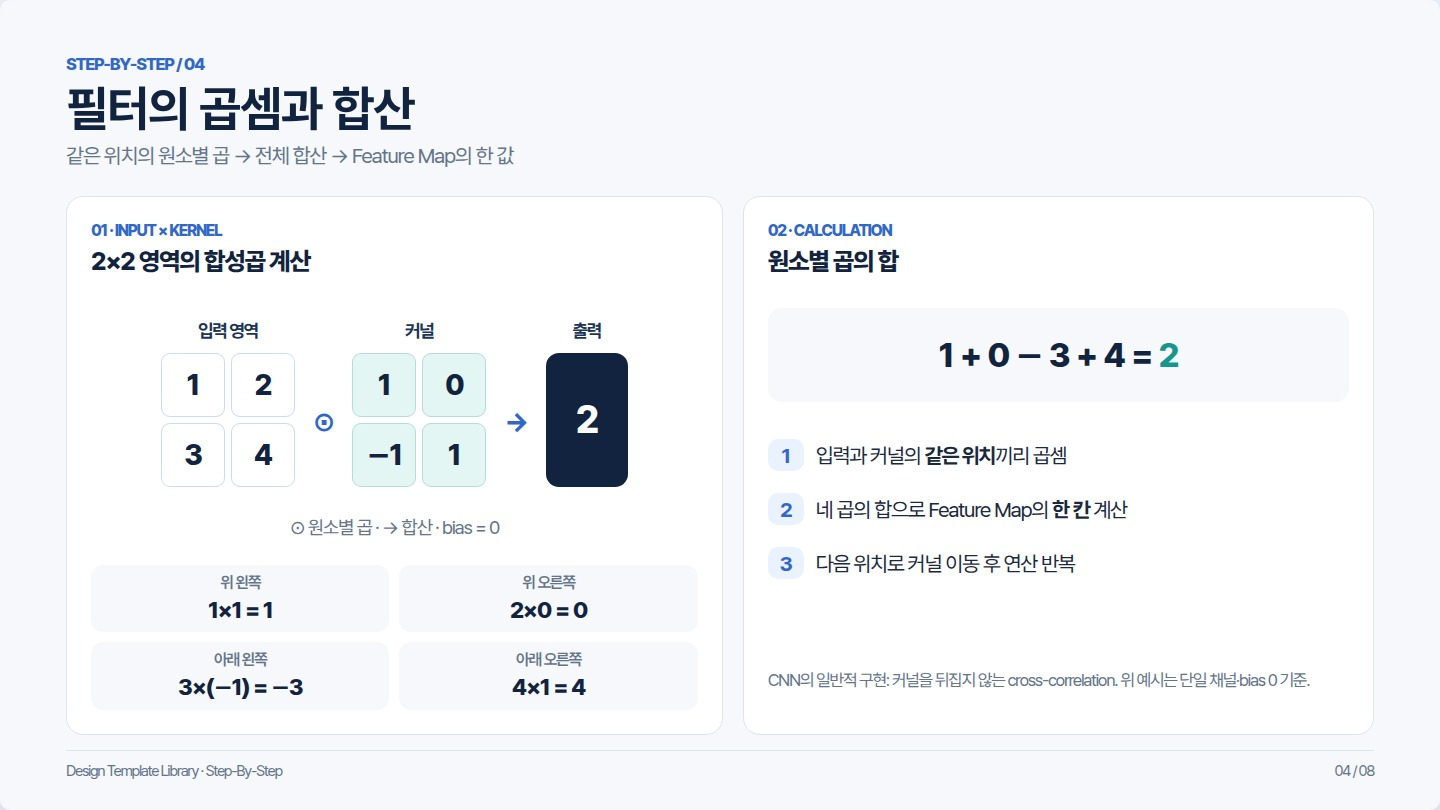
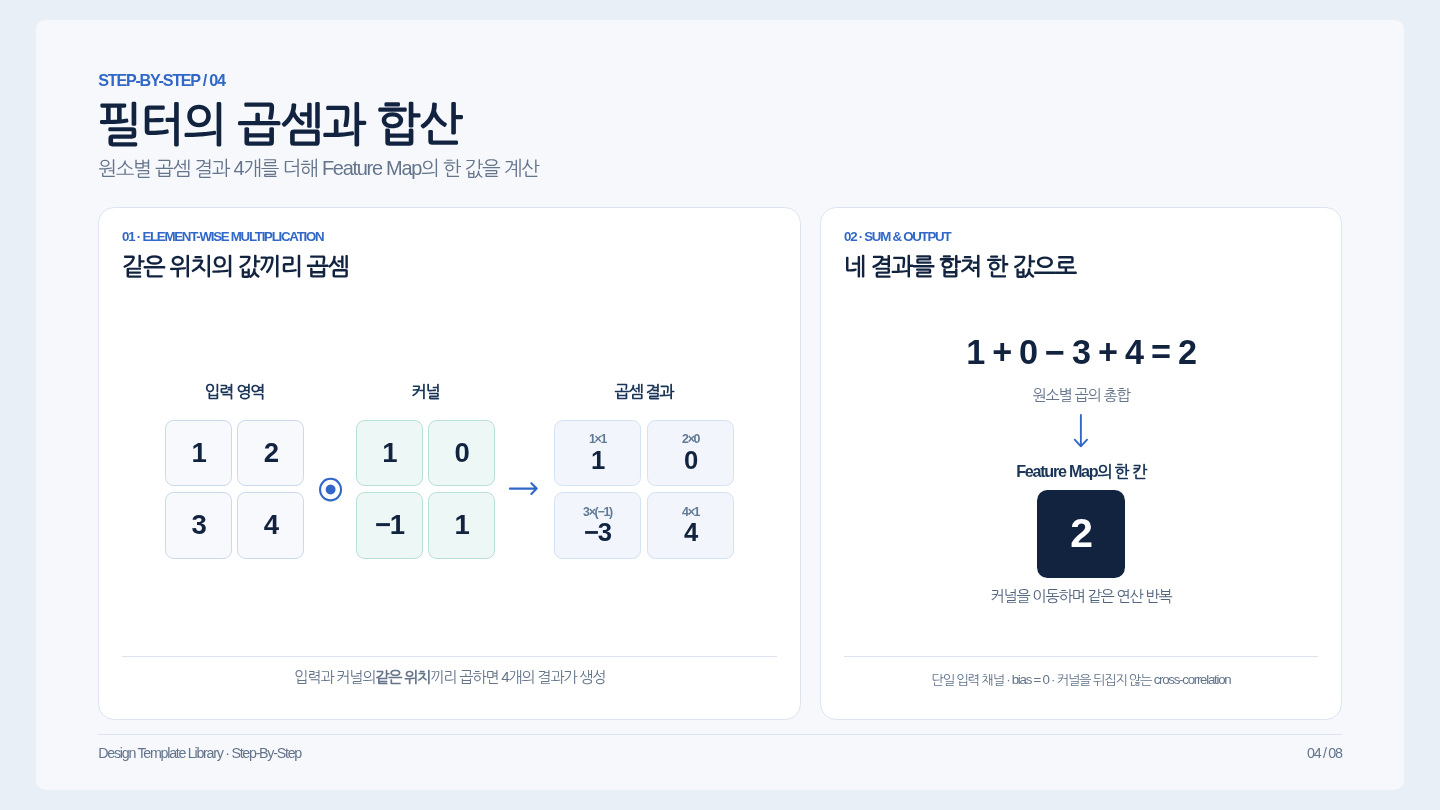
refine(step-by-step): show elementwise products before sum and map output

diff --git a/templates/html/step-by-step.html b/templates/html/step-by-step.html
@@ -1,25 +1,125 @@
 <!doctype html>
-    <html lang="ko"><head><meta charset="utf-8"><meta name="viewport" content="width=device-width,initial-scale=1">
-    <title>Step-By-Step | Design Template Library</title>
-    <link rel="stylesheet" href="styles.css"><link rel="stylesheet" href="reference-types.css"><link rel="stylesheet" href="reference-layout.css">
+<html lang="ko">
+<head>
+<meta charset="utf-8">
+<meta name="viewport" content="width=device-width,initial-scale=1">
+<title>Step-by-Step | Design Template Library</title>
+<link rel="stylesheet" href="styles.css">
+<link rel="stylesheet" href="reference-types.css">
+<link rel="stylesheet" href="reference-layout.css">
+<style>
+/* 04 Step-by-Step: one numerically verified, editable cross-correlation figure.
+   Reuse policy: docs/FIGURE_PRODUCTION_STANDARD.md (available on #6 PR). */
+.step-by-step-slide .content { display:flex; }
+.step-by-step-slide .calc-layout { display:grid; grid-template-columns:1.24fr .92fr; gap:20px; width:100%; min-height:0; }
+.step-by-step-slide .calc-panel { display:flex; flex-direction:column; min-width:0; padding:23px 24px; background:#fff; border:1px solid var(--border); border-radius:17px; }
+.step-by-step-slide .calc-step { color:var(--blue); font-size:14px; font-weight:800; }
+.step-by-step-slide .calc-heading { margin:8px 0 0; color:var(--navy); font-size:25px; font-weight:800; line-height:1.2; }
+.step-by-step-slide .calc-flow { display:flex; align-items:center; justify-content:center; gap:14px; width:100%; margin:auto 0; padding:17px 0 13px; }
+.step-by-step-slide .calc-item { display:flex; flex-direction:column; align-items:center; min-width:0; gap:15px; }
+.step-by-step-slide .calc-item-title { min-height:25px; font-size:17px; color:var(--deep); font-weight:750; white-space:nowrap; }
+.step-by-step-slide .calc-matrix { display:grid; grid-template-columns:repeat(2,70px); grid-auto-rows:70px; gap:6px; }
+.step-by-step-slide .calc-matrix > div { display:flex; justify-content:center; align-items:center; border:1px solid #cad9ed; border-radius:9px; background:#f7f9fd; color:var(--navy); font-size:29px; font-weight:800; font-variant-numeric:tabular-nums; }
+.step-by-step-slide .calc-matrix.kernel > div { background:#edf8f6; border-color:#b9ddd8; }
+.step-by-step-slide .calc-matrix.product { grid-template-columns:repeat(2,92px); grid-auto-rows:70px; }
+.step-by-step-slide .calc-matrix.product > div { flex-direction:column; gap:2px; border-color:#d4e2f3; background:#f2f6fc; }
+.step-by-step-slide .calc-matrix.product small { color:#607995; font-size:13px; font-weight:650; }
+.step-by-step-slide .calc-matrix.product strong { color:var(--navy); font-size:27px; line-height:1; }
+.step-by-step-slide .calc-operator { align-self:center; margin-top:38px; min-width:24px; text-align:center; color:var(--blue); font-size:30px; font-weight:750; line-height:1; }
+.step-by-step-slide .calc-arrow { width:34px; height:16px; margin-top:38px; flex-shrink:0; overflow:visible; }
+.step-by-step-slide .calc-arrow path { fill:none; stroke:var(--blue); stroke-width:2.3; stroke-linecap:round; stroke-linejoin:round; }
+.step-by-step-slide .calc-mini-caption { display:flex; align-items:center; justify-content:center; min-height:43px; color:#64748b; border-top:1px solid var(--border); font-size:16px; text-align:center; }
+.step-by-step-slide .calc-sum-work { display:flex; align-items:center; justify-content:center; gap:12px; flex-direction:column; margin:auto 0; padding:8px 0; }
+.step-by-step-slide .calc-equation { font-size:36px; font-weight:800; letter-spacing:-1pt; color:var(--navy); white-space:nowrap; font-variant-numeric:tabular-nums; }
+.step-by-step-slide .calc-equation-sub { font-size:16px; color:var(--muted); margin-top:3px; }
+.step-by-step-slide .calc-down-arrow { width:25px; height:38px; }
+.step-by-step-slide .calc-down-arrow path { fill:none; stroke:var(--blue); stroke-width:2; stroke-linecap:round; stroke-linejoin:round; }
+.step-by-step-slide .calc-output-wrap { display:flex; flex-direction:column; align-items:center; gap:10px; }
+.step-by-step-slide .calc-output-label { font-size:17px; color:var(--deep); font-weight:800; }
+.step-by-step-slide .calc-output { width:92px; height:92px; display:grid; place-items:center; border-radius:11px; color:#fff; background:var(--navy); font-size:43px; font-weight:850; font-variant-numeric:tabular-nums; }
+.step-by-step-slide .calc-output-caption { font-size:16px; color:#52647d; text-align:center; }
+.step-by-step-slide .calc-method-note { border-top:1px solid var(--border); padding-top:14px; min-height:43px; font-size:14px; color:#64748b; line-height:1.45; text-align:center; }
+@media (max-width:900px) {
+  .step-by-step-slide.reference-slide { zoom:1; width:100%; height:auto; aspect-ratio:auto; overflow:visible; }
+  .step-by-step-slide .calc-layout { grid-template-columns:1fr; gap:16px; }
+  .step-by-step-slide .calc-panel { padding:20px; }
+  .step-by-step-slide .calc-flow { margin:18px 0 20px; }
+  .step-by-step-slide .calc-sum-work { margin:25px 0; }
+}
+@media (max-width:520px) {
+  .step-by-step-slide .calc-panel { padding:17px 14px; }
+  .step-by-step-slide .calc-heading { font-size:22px; }
+  .step-by-step-slide .calc-flow { gap:7px; }
+  .step-by-step-slide .calc-item { gap:8px; }
+  .step-by-step-slide .calc-item-title { font-size:13px; }
+  .step-by-step-slide .calc-matrix { grid-template-columns:repeat(2,40px); grid-auto-rows:42px; gap:3px; }
+  .step-by-step-slide .calc-matrix > div { width:40px; font-size:22px; }
+  .step-by-step-slide .calc-matrix.product { grid-template-columns:repeat(2,48px); grid-auto-rows:42px; gap:3px; }
+  .step-by-step-slide .calc-matrix.product > div { width:48px; gap:0; }
+  .step-by-step-slide .calc-matrix.product small { font-size:10px; }
+  .step-by-step-slide .calc-matrix.product strong { font-size:20px; }
+  .step-by-step-slide .calc-operator { min-width:14px; font-size:24px; margin-top:23px; }
+  .step-by-step-slide .calc-arrow { width:20px; height:13px; margin-top:23px; }
+  .step-by-step-slide .calc-equation { font-size:29px; }
+  .step-by-step-slide .calc-mini-caption,.step-by-step-slide .calc-method-note { font-size:13px; }
+}
+</style>
 </head>
-    <body><main class="deck reference-deck"><section class="slide ref-slide reference-slide step-by-step-slide" aria-label="step-by-step 디자인 레퍼런스">
-    <header><div class="ref-overline"><div class="kicker">STEP-BY-STEP / 04</div></div>
-    <h1>필터의 곱셈과 합산</h1><p class="subtitle">같은 위치의 원소별 곱 → 전체 합산 → Feature Map의 한 값</p></header>
-    <div class="content"><div class="ref-grid step-grid">
-  <section class="ref-card"><div class="ref-k">01 · INPUT × KERNEL</div><h2 class="ref-h">2×2 영역의 합성곱 계산</h2>
-    <div class="step-equation"><div class="step-operand"><span class="operand-label">입력 영역</span><div class="step-matrix"><span>1</span><span>2</span><span>3</span><span>4</span></div></div>
-      <div class="step-op">⊙</div><div class="step-operand"><span class="operand-label">커널</span><div class="step-matrix kernel"><span>1</span><span>0</span><span>−1</span><span>1</span></div></div><div class="step-op">→</div><div class="step-operand"><span class="operand-label">출력</span><div class="step-result">2</div></div></div>
-    <div class="ref-desc" style="text-align:center">⊙ 원소별 곱 · → 합산 · bias = 0</div>
-    <div class="step-values"><div class="step-val"><small>위 왼쪽</small>1×1 = 1</div><div class="step-val"><small>위 오른쪽</small>2×0 = 0</div><div class="step-val"><small>아래 왼쪽</small>3×(−1) = −3</div><div class="step-val"><small>아래 오른쪽</small>4×1 = 4</div></div>
-  </section>
-  <section class="ref-card"><div class="ref-k">02 · CALCULATION</div><h2 class="ref-h">원소별 곱의 합</h2>
-    <div class="sum-equation">1 + 0 − 3 + 4 = <span style="color:#16968d">2</span></div>
-    <div class="step-points"><div class="step-point"><strong>1</strong><span>입력과 커널의 <b>같은 위치</b>끼리 곱셈</span></div>
-      <div class="step-point"><strong>2</strong><span>네 곱의 합으로 Feature Map의 <b>한 칸</b> 계산</span></div>
-      <div class="step-point"><strong>3</strong><span>다음 위치로 커널 이동 후 연산 반복</span></div></div>
-    <p class="ref-note" style="margin-top:19px">CNN의 일반적 구현: 커널을 뒤집지 않는 cross-correlation. 위 예시는 단일 채널·bias 0 기준.</p>
-  </section></div></div>
+<body>
+<main class="deck reference-deck">
+  <section class="slide ref-slide reference-slide step-by-step-slide" aria-label="2×2 커널의 원소별 곱셈과 합산 예시">
+    <header>
+      <div class="ref-overline"><div class="kicker">STEP-BY-STEP / 04</div></div>
+      <h1>필터의 곱셈과 합산</h1>
+      <p class="subtitle">원소별 곱셈 결과 4개를 더해 Feature Map의 한 값을 계산</p>
+    </header>
+    <div class="content">
+      <div class="calc-layout">
+        <section class="calc-panel" aria-label="첫 단계: 동일 위치의 원소별 곱셈">
+          <div class="calc-step">01 · ELEMENT-WISE MULTIPLICATION</div>
+          <h2 class="calc-heading">같은 위치의 값끼리 곱셈</h2>
+          <div class="calc-flow">
+            <div class="calc-item">
+              <div class="calc-item-title">입력 영역</div>
+              <div class="calc-matrix" aria-label="입력 행렬: 첫 행 1, 2. 둘째 행 3, 4"><div>1</div><div>2</div><div>3</div><div>4</div></div>
+            </div>
+            <div class="calc-operator" aria-label="원소별 곱셈">⊙</div>
+            <div class="calc-item">
+              <div class="calc-item-title">커널</div>
+              <div class="calc-matrix kernel" aria-label="커널 행렬: 첫 행 1, 0. 둘째 행 -1, 1"><div>1</div><div>0</div><div>−1</div><div>1</div></div>
+            </div>
+            <svg class="calc-arrow" viewBox="0 0 36 16" role="img" aria-label="원소별 곱 결과"><path d="M2 8 H32 M26 2 L32 8 L26 14"/></svg>
+            <div class="calc-item">
+              <div class="calc-item-title">곱셈 결과</div>
+              <div class="calc-matrix product" aria-label="원소별 곱 결과: 첫 행 1, 0. 둘째 행 -3, 4">
+                <div><small>1×1</small><strong>1</strong></div>
+                <div><small>2×0</small><strong>0</strong></div>
+                <div><small>3×(−1)</small><strong>−3</strong></div>
+                <div><small>4×1</small><strong>4</strong></div>
+              </div>
+            </div>
+          </div>
+          <div class="calc-mini-caption">입력과 커널의 <strong>같은 위치</strong>끼리 곱하면 4개의 결과가 생성</div>
+        </section>
+        <section class="calc-panel" aria-label="두 번째 단계: 원소별 곱 결과의 합산">
+          <div class="calc-step">02 · SUM &amp; OUTPUT</div>
+          <h2 class="calc-heading">네 결과를 합쳐 한 값으로</h2>
+          <div class="calc-sum-work">
+            <div class="calc-equation" aria-label="1 더하기 0 빼기 3 더하기 4는 2">1 + 0 − 3 + 4 = 2</div>
+            <div class="calc-equation-sub">원소별 곱의 총합</div>
+            <svg class="calc-down-arrow" viewBox="0 0 25 38" role="img" aria-label="Feature Map 출력"><path d="M12.5 1 V34 M6 27 L12.5 34 L19 27"/></svg>
+            <div class="calc-output-wrap">
+              <div class="calc-output-label">Feature Map의 한 칸</div>
+              <div class="calc-output">2</div>
+              <div class="calc-output-caption">커널을 이동하며 같은 연산 반복</div>
+            </div>
+          </div>
+          <div class="calc-method-note">단일 입력 채널 · bias = 0 · 커널을 뒤집지 않는 cross-correlation</div>
+        </section>
+      </div>
+    </div>
     <footer class="footer"><span>Design Template Library · Step-By-Step</span><span>04 / 08</span></footer>
-    </section></main></body></html>
-
+  </section>
+</main>
+</body>
+</html>

diff --git a/TEMPLATE_CATALOG.md b/TEMPLATE_CATALOG.md
@@ -11,7 +11,7 @@
 | `concept` | 개념 소개·핵심 Figure | 실사형 입력·영역 색상 샘플·RGB 수치 | [원본](templates/html/concept.html) · ![Concept](previews/html-concept.png) |
 | `process` | 단계/프로세스 설명 | Input → Process → Output | [원본](templates/html/process.html) · ![Process](previews/html-process.png) |
 | `comparison` | A/B 접근법 비교 | 동일 지표의 두 패널 | [원본](templates/html/comparison.html) · ![Comparison](previews/html-comparison.png) |
-| `step-by-step` | 수식·연산 강의 | 배열 × 커널 → 합계 | [원본](templates/html/step-by-step.html) · ![Step-by-step](previews/html-step-by-step.jpg) |
+| `step-by-step` | 수식·연산 강의 | 입력 2×2 × 커널 2×2 → 원소별 곱 결과 2×2 → 합산 → Feature Map 한 칸 | [원본](templates/html/step-by-step.html) · ![Step-by-step](previews/html-step-by-step.jpg) |
 | `interactive` | 웹 실습·임계값 검증 | 슬라이더 + 계산 + 혼동행렬 | [원본](templates/html/interactive.html) · ![Interactive](previews/html-interactive.jpg) |
 | `architecture` | 모델·시스템 구조 | 논문형 Feature Map Stack·Tensor Shape | [원본](templates/html/architecture.html) · ![Architecture](previews/html-architecture.jpg) |
 | `experiment` | 연구 결과·지표 비교 | Confusion Matrix + Metrics | [원본](templates/html/experiment.html) · ![Experiment](previews/html-experiment.jpg) |
@@ -22,7 +22,7 @@
 - **Concept**: 직관적인 하나의 개념과 Figure를 나란히 배치합니다.
 - **Process**: 실제 처리 순서와 화살표 방향이 일치해야 합니다.
 - **Comparison**: 동일한 질문·측정 조건으로 비교합니다.
-- **Step-by-step**: 계산식과 입력값, 결과가 실제로 일치해야 합니다.
+- **Step-by-step**: 같은 위치의 원소별 곱셈 결과 `[[1,0],[-3,4]]` → 합산 `1+0−3+4=2` → Feature Map 한 칸으로 연결합니다. 단일 입력 채널·bias 0·커널 반전 없는 cross-correlation 조건을 밝히고, 입력값과 결과를 검산합니다.
 - **Interactive**: 조작할 수 있는 변수와 화면에 표시하는 계산이 일치해야 합니다. 계산 예시는 정적 이미지로 대체하지 않습니다.
 - **Architecture**: 각 텐서의 H/W/C와 stride·padding 관계를 확인합니다.
 - **Experiment**: 12건의 혼동행렬(TN=5, FP=1, FN=2, TP=4)과 파생 지표의 수치가 일치해야 합니다.
